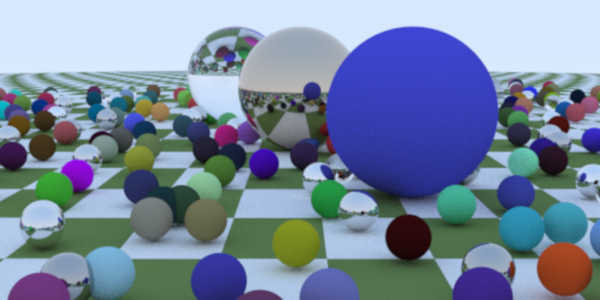
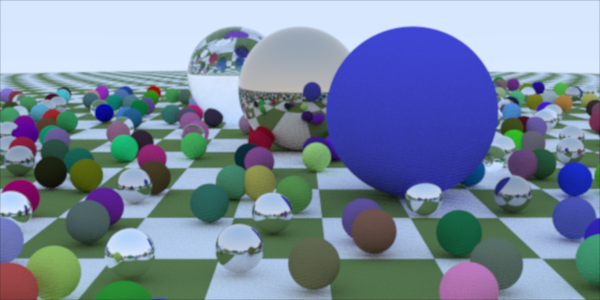
update readme/image

diff --git a/README.md b/README.md
@@ -2,6 +2,6 @@ A simple quasi-Monte-Carlo path tracer as described by [Peter Shirley's Ray Trac
 
 ![Our rendering of Shirley's test scene at 32 samples per pixel](https://github.com/dalev/path-tracer-ocaml/blob/main/shirley-spheres.png?raw=true)
 
-It's implemented in [Ocaml](https://ocaml.org) and a little bit of [Rust](https://rust-lang.org).  On x86-64, the rust code uses AVX intrinsics to intersect a ray with four spheres at a time.
+It's implemented in [Ocaml](https://ocaml.org) and a little bit of [Rust](https://rust-lang.org).  It requires Ocaml version 5 because it uses the new shared-memory parallelism capabilities.  On x86-64, the rust code uses AVX intrinsics to intersect a ray with four spheres at a time.
 
-To build, run `dune build --release`.  To generate the above image, run `dune exec --release shirley_spheres -- --dimension=600,300 --samples-per-pixel=32 --max-ray-bounces=4`.  Increase `--samples-per-pixel` and/or `--max-ray-bounces` to render a higher quality image.  Pass the `--help` flag to see other options.
+To build, run `dune build --release`.  To generate the above image, run `dune exec --release shirley_spheres -- --dimension=600,300 --samples-per-pixel=32 --max-ray-bounces=8`.  Increase `--samples-per-pixel` and/or `--max-ray-bounces` to render a higher quality image.  Pass the `--help` flag to see other options.
